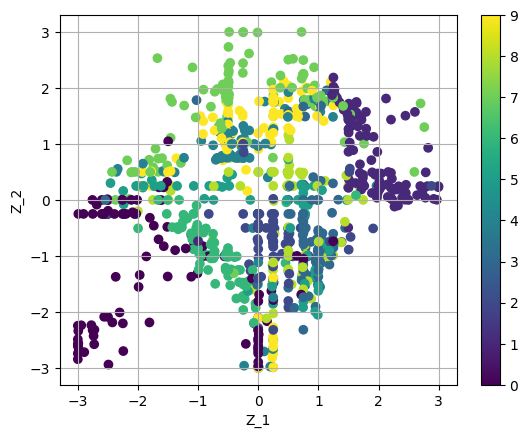
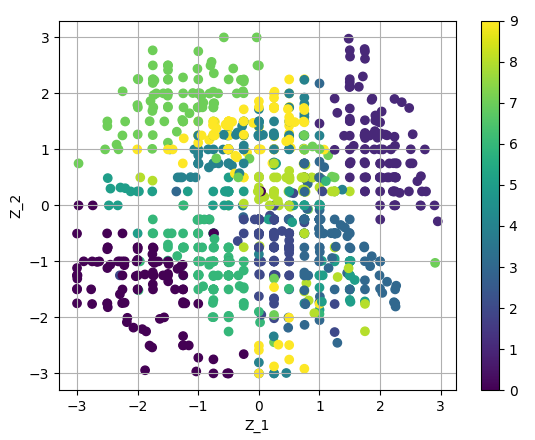
ps1

diff --git a/pa1.py b/pa1.py
@@ -238,7 +238,7 @@ def p_X_gZ2() -> np.ndarray:
 
     return cond_likelihood_z2
 
-def get_conditional_expectation(data: np.ndarray) -> Tuple[np.ndarray, np.ndarray]:
+def get_conditional_expectation_old(data: np.ndarray) -> Tuple[np.ndarray, np.ndarray]:
     global n_disc_z, x_cardinality
     x_cardinality = 784
     n_disc_z = 25
@@ -264,17 +264,18 @@ def get_conditional_expectation_body(data: np.ndarray) -> Tuple[np.ndarray, np.n
 
     cond_likelihood_z1 = np.zeros((n_disc_z, x_cardinality))
     for z1_i in range(n_disc_z):
-        for z2_i in range(n_disc_z):
+        for z2_i in range(n_disc_z):           
             cond_likelihood_z1[z1_i] += \
                 z2_distribution[z2_i] * cond_likelihood[disc_z1[z1_i], disc_z2[z2_i]][0]
 
     cond_likelihood_z2 = np.zeros((n_disc_z, x_cardinality))
     for z2_i in range(n_disc_z):
         for z1_i in range(n_disc_z):
-            before = cond_likelihood_z2[z2_i][0]
             cond_likelihood_z2[z2_i] += \
                 z1_distribution[z1_i] * cond_likelihood[disc_z1[z1_i], disc_z2[z2_i]][0]
 
+    print(np.min(cond_likelihood_z1))
+    print(np.min(cond_likelihood_z2))
     # should match P(Z1|x_1)
     # print(cond_likelihood_z1[0][0])
     # print(p_x0_gz0())
@@ -286,8 +287,8 @@ def get_conditional_expectation_body(data: np.ndarray) -> Tuple[np.ndarray, np.n
     # print(p_X_gz0()[0])
     # print(p_X_gZ1()[0][0])
 
-    cond_likelihood_z1=p_X_gZ1()
-    cond_likelihood_z2=p_X_gZ2()
+    # cond_likelihood_z1=p_X_gZ1()
+    # cond_likelihood_z2=p_X_gZ2()
 
     cond_e_z_1=np.zeros(n)
     cond_e_z_2=np.zeros(n)
@@ -300,22 +301,28 @@ def get_conditional_expectation_body(data: np.ndarray) -> Tuple[np.ndarray, np.n
         #     continue
 
         image=data[i]
-        pz1_px_z1=np.zeros(n_disc_z)
-        pz2_px_z2=np.zeros(n_disc_z)
+        log_pz1_px_z1=np.zeros(n_disc_z)
+        log_pz2_px_z2=np.zeros(n_disc_z)
         for zi in range(n_disc_z):
             pz1 = z1_distribution[zi]
             pz2 = z2_distribution[zi]
        
-            pz1_px_z1[zi]=pz1 * np.prod(pixel_to_p(cond_likelihood_z1[zi], image))
-            pz2_px_z2[zi]=pz2 * np.prod(pixel_to_p(cond_likelihood_z2[zi], image))
+            log_pz1_px_z1[zi]=np.log(pz1) + np.sum(np.log(pixel_to_p(cond_likelihood_z1[zi], image)))
+            log_pz2_px_z2[zi]=np.log(pz2) + np.sum(np.log(pixel_to_p(cond_likelihood_z2[zi], image)))
 
         # print(np.min(pz1_px_z1), np.max(pz1_px_z1))
 
-        pz1_px_z1_sum=np.sum(pz1_px_z1)
-        pz2_px_z2_sum=np.sum(pz2_px_z2)
+        pz1_px_z1_sum=logsumexp(log_pz1_px_z1)
+        pz2_px_z2_sum=logsumexp(log_pz2_px_z2)
 
-        cond_e_z_1[i]=np.sum(disc_z1 * (pz1_px_z1 / pz1_px_z1_sum))
-        cond_e_z_2[i]=np.sum(disc_z2 * (pz2_px_z2 / pz2_px_z2_sum))
+        pz1_image=np.zeros(n_disc_z)
+        pz2_image=np.zeros(n_disc_z)
+        for zi in range(n_disc_z):
+            pz1_image[zi]=log_pz1_px_z1[zi] - pz1_px_z1_sum
+            pz2_image[zi]=log_pz2_px_z2[zi] - pz2_px_z2_sum
+
+        cond_e_z_1[i]=np.sum(disc_z1 * np.exp(pz1_image))
+        cond_e_z_2[i]=np.sum(disc_z2 * np.exp(pz2_image))
 
     # print(bayes_net['prior_z1'])
     # print(len(bayes_net['prior_z1']))
@@ -381,6 +388,59 @@ def q5():
 
     return
 
+def get_conditional_expectation(data: np.ndarray) -> Tuple[np.ndarray, np.ndarray]:
+    global n_disc_z, x_cardinality
+    x_cardinality = 784
+    n_disc_z = 25
+
+    global cond_likelihood
+    cond_likelihood = bayes_net['cond_likelihood']
+
+    global z1_distribution
+    z1_distribution = np.zeros(n_disc_z)
+    for i in range(n_disc_z):
+        z1_distribution[i] = bayes_net['prior_z1'][disc_z1[i]]
+
+    global z2_distribution
+    z2_distribution = np.zeros(n_disc_z)
+    for i in range(n_disc_z):
+        z2_distribution[i]= bayes_net['prior_z2'][disc_z2[i]]
+
+    n=len(data)
+    cond_e_z_1=np.zeros(n)
+    cond_e_z_2=np.zeros(n)
+
+    for i in range(n):
+        datum=data[i]
+        if i % 100 == 0:
+            print ("%d / %d" % (i, n))
+            
+        denominator=get_log_marginal_likelihood_datum(datum)
+        denominator=np.exp(denominator)
+
+        for z1_i in range(n_disc_z):
+            cond_e_z_1[i] += disc_z1[z1_i] * np.exp(get_log_marginal_likelihood_datum_z1(datum, z1_i))
+        cond_e_z_1[i] /= denominator
+
+        for z2_i in range(n_disc_z):
+            cond_e_z_2[i] += disc_z2[z2_i] * np.exp(get_log_marginal_likelihood_datum_z2(datum, z2_i))
+        cond_e_z_2[i] /= denominator
+
+    return cond_e_z_1, cond_e_z_2
+       
+
+def get_mx_x_Z2_Z1_of_log_zzp(data):
+    n_disc_z = 25
+
+    def f_log_zzp(d3, d2, d1):
+        print(d2)
+        p_z2=z2_distribution[d2]
+        p_z1=z1_distribution[d1]
+        p_pixel = pixel_to_p(cond_likelihood[disc_z1[d1], disc_z2[d2]][0], data[d3])
+        return np.log(p_z1) + np.log(p_z2) + np.sum(np.log(p_pixel))
+
+    return np.fromfunction(f_log_zzp, (len(data), n_disc_z, n_disc_z))
+
 def get_log_marginal_likelihood(data):
     progress = 100
 
@@ -392,6 +452,56 @@ def get_log_marginal_likelihood(data):
         marginal_log_likelihood[i]=get_log_marginal_likelihood_datum(data[i])
 
     return marginal_log_likelihood
+
+def get_log_marginal_likelihood_datum_z2(datum, z2_i):
+
+    log_all_Z1_Z2_x = np.zeros(n_disc_z)
+
+    i = 0
+    for z1_i in range(n_disc_z):
+        p_pixel = pixel_to_p(cond_likelihood[disc_z1[z1_i], disc_z2[z2_i]][0], datum)
+        
+        p_z1=z1_distribution[z1_i]
+        assert p_z1 > 0 and p_z1 < 1
+
+        p_z2=z2_distribution[z2_i]
+        assert p_z2 > 0 and p_z2 < 1
+
+        # joint for one z1/z2
+        log_all_Z1_Z2_x[i] = np.log(p_z1) + np.log(p_z2) + np.sum(np.log(p_pixel))
+        i = i + 1
+
+    a_max = np.max(log_all_Z1_Z2_x)
+    log_all_Z1_Z2_x_trick = log_all_Z1_Z2_x - a_max
+    expsum = np.sum(np.exp(log_all_Z1_Z2_x_trick))
+    log_prob_x = a_max + np.log(expsum)
+
+    return log_prob_x 
+
+def get_log_marginal_likelihood_datum_z1(datum, z1_i):
+
+    log_all_Z1_Z2_x = np.zeros(n_disc_z)
+
+    i = 0
+    for z2_i in range(n_disc_z):
+        p_pixel = pixel_to_p(cond_likelihood[disc_z1[z1_i], disc_z2[z2_i]][0], datum)
+        
+        p_z1=z1_distribution[z1_i]
+        assert p_z1 > 0 and p_z1 < 1
+
+        p_z2=z2_distribution[z2_i]
+        assert p_z2 > 0 and p_z2 < 1
+
+        # joint for one z1/z2
+        log_all_Z1_Z2_x[i] = np.log(p_z1) + np.log(p_z2) + np.sum(np.log(p_pixel))
+        i = i + 1
+
+    a_max = np.max(log_all_Z1_Z2_x)
+    log_all_Z1_Z2_x_trick = log_all_Z1_Z2_x - a_max
+    expsum = np.sum(np.exp(log_all_Z1_Z2_x_trick))
+    log_prob_x = a_max + np.log(expsum)
+
+    return log_prob_x 
 
 def get_log_marginal_likelihood_datum(datum):
 
@@ -464,7 +574,7 @@ def q6():
     
     You might want to use the logsumexp function from scipy (imported from above).
     """
-
+    
     # Your code here
     global n_disc_z, x_cardinality
     x_cardinality = 784
@@ -627,10 +737,10 @@ def main():
     # q5()
 
     # Your code should save two figures starting with a6
-    q6()
+    # q6()
 
     # Your code should save a figure named a7
-    # q7()
+    q7()
 
     # print(np.random.uniform(0, 1, size=784))
 
